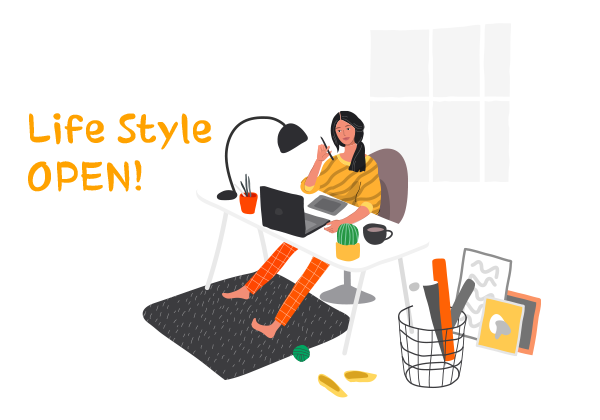
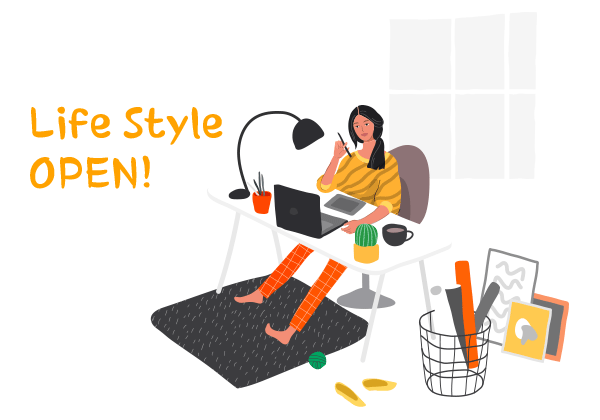
배너 이미지 변경, 문구 수정

Changed region(s): [[0.03, 0.2476, 0.96, 0.9905], [0.03, 0.3714, 0.27, 0.4643]]

diff --git a/src/main/sub/Carousel/container/CarouselContainer.tsx b/src/main/sub/Carousel/container/CarouselContainer.tsx
@@ -32,7 +32,7 @@ class CarouselContainer extends Component<Props, State> {
   banners = [
     {
       type: ContentType.LinkContent,
-      title: <>소소하지만 확실한 행복을 잡아라 ~<br />mySUNI가 드리는 플러스 알파&#44;<br />【Life Style】 OPEN!</>,
+      title: <>소소하지만 확실한 행복을 잡아라 ~<br />mySUNI가 드리는 플러스 알파&#44;<br />Life Style OPEN!</>,
       description: (
         <>
           일상의 소소한 즐거움을 찾고&#44; 행복을 느낄 수 있는<br />
